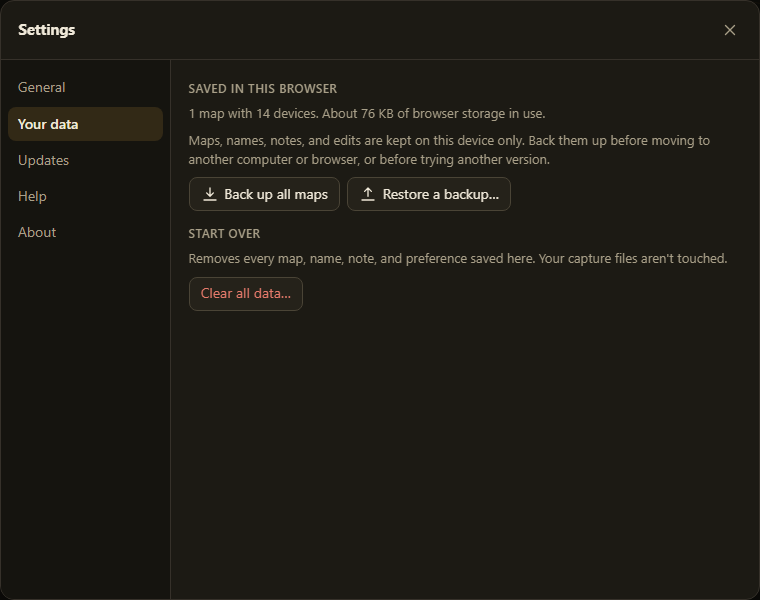
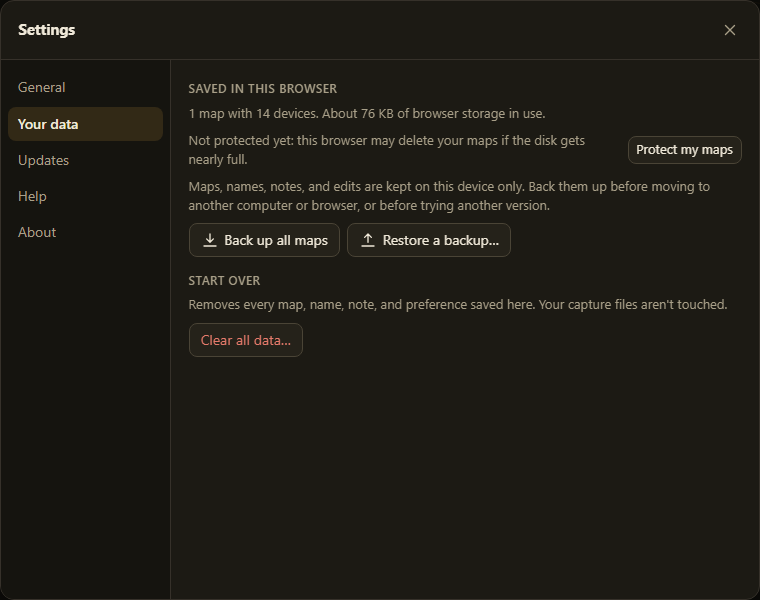
Ask the browser to keep saved maps, and document the storage limits
Browsers may clear a site's IndexedDB when the disk is nearly full
unless the storage is marked persistent. NetSeer now asks for that:

- The desktop app asks at startup (Chromium windows; no prompt).
- Browser copies ask after you open your first capture, once per visit,
  so Firefox's prompt appears when there's something worth keeping.
- Settings -> Your data shows whether storage is protected, with a
  Protect my maps button when it isn't.

Docs: a README section on how much each version can store, the capture
limits, persistence, and how the online copy handles files and maps
(parsed in memory, maps kept in the visitor's own browser). The user
guide, How-to, and hosting guide link to it.

Changed region(s): [[0.2421, 0.21, 0.9684, 0.6], [0.7566, 0.48, 0.9382, 0.54]]

diff --git a/src/netseer/web/app.js b/src/netseer/web/app.js
@@ -2247,6 +2247,8 @@ async function loadFile(file) {
     if (at >= 0) state.surveys.splice(at, 1, item);
     else state.surveys.unshift(item);
     applyGraph(graph, file.name, id);
+    // Their own capture is worth keeping; Firefox asks here, other browsers decide quietly.
+    requestPersistentStorage();
   } catch (err) {
     setBusy(false);
     fail(new Error(`${file.name}: ${err.message || err}`));
@@ -2734,6 +2736,7 @@ async function refreshDataSummary() {
   }
   if (!store.available) text += " This browser isn't letting NetSeer save, so these will be lost when you close it.";
   el("data-summary").textContent = text;
+  renderPersistStatus();
 }
 
 function netseerLocalKeys() {
@@ -2832,6 +2835,47 @@ async function replaceAllData({ maps = [], deviceMeta = {}, session = null, loca
     /* preferences are a convenience */
   }
   location.reload();
+}
+
+/* ---------- Settings: keeping storage ---------- */
+// Browsers may clear a site's storage when the disk is nearly full, unless the site's
+// storage is marked persistent. Chromium grants or refuses without asking; Firefox asks.
+
+async function storagePersisted() {
+  try {
+    return navigator.storage?.persisted ? await navigator.storage.persisted() : null;
+  } catch {
+    return null;
+  }
+}
+
+async function requestPersistentStorage() {
+  if (!navigator.storage?.persist) return null;
+  try {
+    if (await navigator.storage.persisted()) return true;
+    if (requestPersistentStorage.asked) return false; // once per visit is enough
+    requestPersistentStorage.asked = true;
+    return await navigator.storage.persist();
+  } catch {
+    return false;
+  }
+}
+
+async function renderPersistStatus() {
+  const persisted = await storagePersisted();
+  const text = el("data-persist");
+  show("data-persist-btn", persisted === false);
+  if (persisted === null) text.textContent = "This browser can't protect saved maps from automatic cleanup, so back them up regularly.";
+  else if (persisted) text.textContent = "Protected: this browser won't delete your maps to free up disk space.";
+  else text.textContent = "Not protected yet: this browser may delete your maps if the disk gets nearly full.";
+}
+
+async function protectStorage() {
+  requestPersistentStorage.asked = false;
+  const granted = await requestPersistentStorage();
+  await renderPersistStatus();
+  if (granted) toast("Your maps are protected from automatic cleanup.");
+  else toast("The browser didn't allow it. Chrome and Edge decide for themselves, usually once you bookmark NetSeer or use it often. Back up regularly in the meantime.", { timeout: 9000 });
 }
 
 /* ---------- Settings: updates ---------- */
@@ -3034,6 +3078,7 @@ function bindSettings() {
     if (file) restoreBackup(file).catch(fail);
   });
   el("data-clear").addEventListener("click", () => clearAllData().catch(fail));
+  el("data-persist-btn").addEventListener("click", () => protectStorage().catch(fail));
   el("updates-check").addEventListener("click", checkForUpdates);
   el("updates-auto").addEventListener("change", (e) => {
     state.prefs.autoUpdate = e.target.checked;
@@ -3394,6 +3439,8 @@ async function init() {
   const restoredUploads = state.maps.filter((m) => String(m.sourceId || "").startsWith("upload:")).map((m) => ({ id: m.sourceId, kind: "upload", name: m.name, summary: "Your capture", graph: m.graph }));
   state.surveys = [...restoredUploads, ...state.catalog.filter((s) => !hidden.has(s.id)).map(sampleToSurvey)];
   await openStartingMap();
+  // The app window is Chromium (WebView2) or a Chromium app-mode window: no prompt there.
+  if (state.server.mode === "desktop") requestPersistentStorage();
   offerTour();
   autoCheckUpdates();
 }

diff --git a/src/netseer/web/index.html b/src/netseer/web/index.html
@@ -15,7 +15,7 @@
     <link rel="icon" type="image/svg+xml" href="/static/logo-small.svg" />
     <link rel="icon" type="image/png" href="/static/favicon.png" />
     <link rel="apple-touch-icon" href="/static/logo-192.png" />
-    <link rel="stylesheet" href="/static/styles.css?v=ui5" />
+    <link rel="stylesheet" href="/static/styles.css?v=ui6" />
     <script src="/static/vendor/cytoscape.min.js?v=3.30.4"></script>
   </head>
   <body>
@@ -340,6 +340,8 @@
           <section class="settings-pane hidden" data-pane="data" role="tabpanel">
             <h3>Saved in this browser</h3>
             <p id="data-summary" class="hint">Counting&hellip;</p>
+            <p class="persist-row"><span id="data-persist" class="hint"></span>
+              <button id="data-persist-btn" class="btn small hidden" type="button">Protect my maps</button></p>
             <p class="hint">Maps, names, notes, and edits are kept on this device only. Back them up before moving to another computer or browser, or before trying another version.</p>
             <div class="settings-actions">
               <button id="data-backup" class="btn" type="button"><svg class="icon"><use href="#i-download" /></svg><span>Back up all maps</span></button>
@@ -432,6 +434,6 @@
       </div>
     </div>
 
-    <script src="/static/app.js?v=ui7"></script>
+    <script src="/static/app.js?v=ui8"></script>
   </body>
 </html>

diff --git a/src/netseer/web/styles.css b/src/netseer/web/styles.css
@@ -970,6 +970,8 @@ input[type="radio"] { accent-color: var(--accent); width: 16px; height: 16px; }
 .settings-pane .hint { margin: 0.35rem 0 0.6rem; font-size: 13px; }
 .settings-pane a { color: var(--accent); }
 .settings-actions { display: flex; flex-wrap: wrap; gap: 0.5rem; }
+.persist-row { display: flex; align-items: center; gap: 0.75rem; margin: 0 0 0.6rem; }
+.persist-row .hint { flex: 1; margin: 0; }
 .theme-grid { display: grid; grid-template-columns: repeat(2, minmax(0, 1fr)); gap: 0.5rem; }
 .theme-grid .chip-btn { flex-direction: row; align-items: center; gap: 0.65rem; }
 .theme-grid .theme-swatch { display: inline-flex; width: 44px; height: 26px; flex-shrink: 0; overflow: hidden; border: 1px solid var(--line-strong); border-radius: 6px; }

diff --git a/README.md b/README.md
@@ -18,6 +18,7 @@ NetSeer reads capture files you give it; it doesn't sniff live traffic. The desk
 - [What it reads](#what-it-reads)
 - [What you get](#what-you-get)
 - [Where your data lives](#where-your-data-lives)
+- [How much you can store](#how-much-you-can-store)
 - [Command-line options](#command-line-options)
 - [Develop](#develop)
 - [Build the desktop apps](#build-the-desktop-apps)
@@ -142,6 +143,36 @@ NetSeer never changes your capture files. Maps, names, notes, and positions are 
 | Unwanted dumps | `Documents\NetSeer\Unwanted` | `~/Documents/NetSeer/Unwanted` |
 
 Running from source and using your normal browser, maps live in that browser's site data for `127.0.0.1:47331`, and Unwanted dumps go to `Unwanted/` in the project (or `NETSEER_UNWANTED_DIR`).
+
+## How much you can store
+
+Every version of NetSeer saves maps the same way: in the **IndexedDB** storage of the window or browser showing it. A saved map holds devices, links, names, notes, and positions, not the packets. The campus sample takes about 76 KB, and a map from a full 50 MB capture is usually a few MB. The storage limits below are far more than that, so the capture limits are the ones you'll actually meet.
+
+| | Windows app | Linux app | Online copy |
+| --- | --- | --- | --- |
+| Saved by | Edge WebView2 (Chromium) | Chrome, Chromium, Edge, Brave, or Vivaldi in its own profile | Your browser |
+| Room for saved maps | Up to about 60% of the disk | Up to about 60% of the disk | Chrome and Edge: up to about 60% of the disk. Firefox: about 10% of the disk, at most 10 GB, until storage is protected. Safari: large, but see below. |
+| Largest capture | 50 MB per file | 50 MB per file | 20 MB per file |
+| Packets read per capture | 80,000 | 80,000 | 80,000 |
+
+These are the browsers' own rules and vary a little by version. The capture limit for a copy you run yourself is set with `NETSEER_MAX_UPLOAD_MB`.
+
+**Keeping maps from being cleared.** Browsers can delete a site's storage on their own when the disk is nearly full. To stop that, NetSeer asks the browser to mark its storage as *persistent*:
+- the desktop app asks when it starts
+- the browser versions ask after you open your first capture (Firefox shows a prompt; Chrome and Edge decide quietly, usually yes once you've bookmarked or often used the site)
+- you can ask again from **Settings** → **Your data** → **Protect my maps**, which also shows whether storage is protected
+
+**Back up anyway.** **Settings** → **Your data** → **Back up all maps** saves everything to one JSON file that no browser will clear, and **Restore a backup** loads it on any computer or browser.
+
+### How the online copy stores your work
+
+The online copy at [netseer.onrender.com](https://netseer.onrender.com) works like the desktop app, with the server and the browser on different machines:
+
+1. When you open a capture, your browser sends the file over HTTPS to the server.
+2. The server reads it in memory, sends back the map (devices and links), and discards the file. Nothing is written to the server's disk, and there are no accounts.
+3. Your browser saves the map in its own IndexedDB for `netseer.onrender.com`. Names, notes, edits, positions, and preferences are saved there too and never leave your browser.
+
+So your maps are tied to **that browser on that device**. Other visitors can't see them, and you won't see them from another computer, another browser, or a private window. Clearing the site's data in your browser deletes them. **Safari** may also delete a website's saved data after about 7 days without a visit, so back up often if you use it there. Packet captures can contain sensitive information: for real captures from your own network, run NetSeer on your own computer. See [docs/hosting.md](docs/hosting.md) for how the online copy is set up.
 
 ## Command-line options
 

diff --git a/docs/netseer-how-to.md b/docs/netseer-how-to.md
@@ -45,7 +45,7 @@ The **cog** in the top bar. A dot on it means a newer release is out.
 | Section | What's there |
 | --- | --- |
 | **General** | Theme; **Scroll to zoom** speed (Gentle, Normal, Quick); **Group by subnet**; **Fade unrelated devices on hover** |
-| **Your data** | Count of saved maps and devices; **Back up all maps** (one JSON file with maps, names, notes, edits, positions, and preferences); **Restore a backup…** (replaces what's saved here; asks first); **Clear all data…** (asks first) |
+| **Your data** | Count of saved maps and devices; whether storage is protected from automatic cleanup, with **Protect my maps** if not; **Back up all maps** (one JSON file with maps, names, notes, edits, positions, and preferences); **Restore a backup…** (replaces what's saved here; asks first); **Clear all data…** (asks first) |
 | **Updates** | Version and install type; **Check for updates**; **Check when NetSeer opens** (off by default, at most once a day); every release with **Release notes** and a download for your install type, labelled **Update**, **Reinstall**, or **Roll back**. From source, it copies a `uv tool install --force` command for that version. The online copy updates itself and shows no list. |
 | **Help** | **Take the tour**, **Keyboard shortcuts**, the user guide, **Report a problem** (a new GitHub issue with your version filled in) |
 | **About** | Version, how NetSeer is running, links, and component licenses |

diff --git a/docs/user-guide.md b/docs/user-guide.md
@@ -211,6 +211,7 @@ Click the **cog** at the right of the top bar. A dot on the cog means a newer ve
 - **Back up all maps** downloads one `NetSeer-backup-<date>.json` file with every map, name, note, edit, position, and preference.
 - **Restore a backup…** replaces what's saved here with a backup file. It asks first.
 - **Clear all data…** removes everything saved here and starts fresh. It asks first. Your capture files aren't touched.
+- The line above the buttons says whether your maps are **protected** from automatic cleanup. Browsers can delete a site's storage when the disk is nearly full; if yours isn't protected yet, click **Protect my maps**. See [How much you can store](../README.md#how-much-you-can-store).
 
 Use a backup to move your maps to another computer or browser, or before trying a different version.
 

diff --git a/docs/hosting.md b/docs/hosting.md
@@ -19,7 +19,7 @@ It uses [Render](https://render.com)'s free plan, set up by [`render.yaml`](../r
 
 **How NetSeer behaves when hosted** (`NETSEER_HOSTED=1`, already set in `render.yaml`):
 - Captures people open are sent to the server, parsed in memory to draw the map, and not kept.
-- Maps, names, and notes stay in each visitor's own browser. Visitors never see each other's maps.
+- Maps, names, and notes stay in each visitor's own browser (IndexedDB). Visitors never see each other's maps. See [How much you can store](../README.md#how-much-you-can-store) for the limits.
 - Nobody can write files to the server. **Save to files and empty** (for Unwanted) downloads the JSON files to the visitor's computer instead.
 - The app shows a short notice about this in the **Surveys** tab and on the welcome screen.
 
